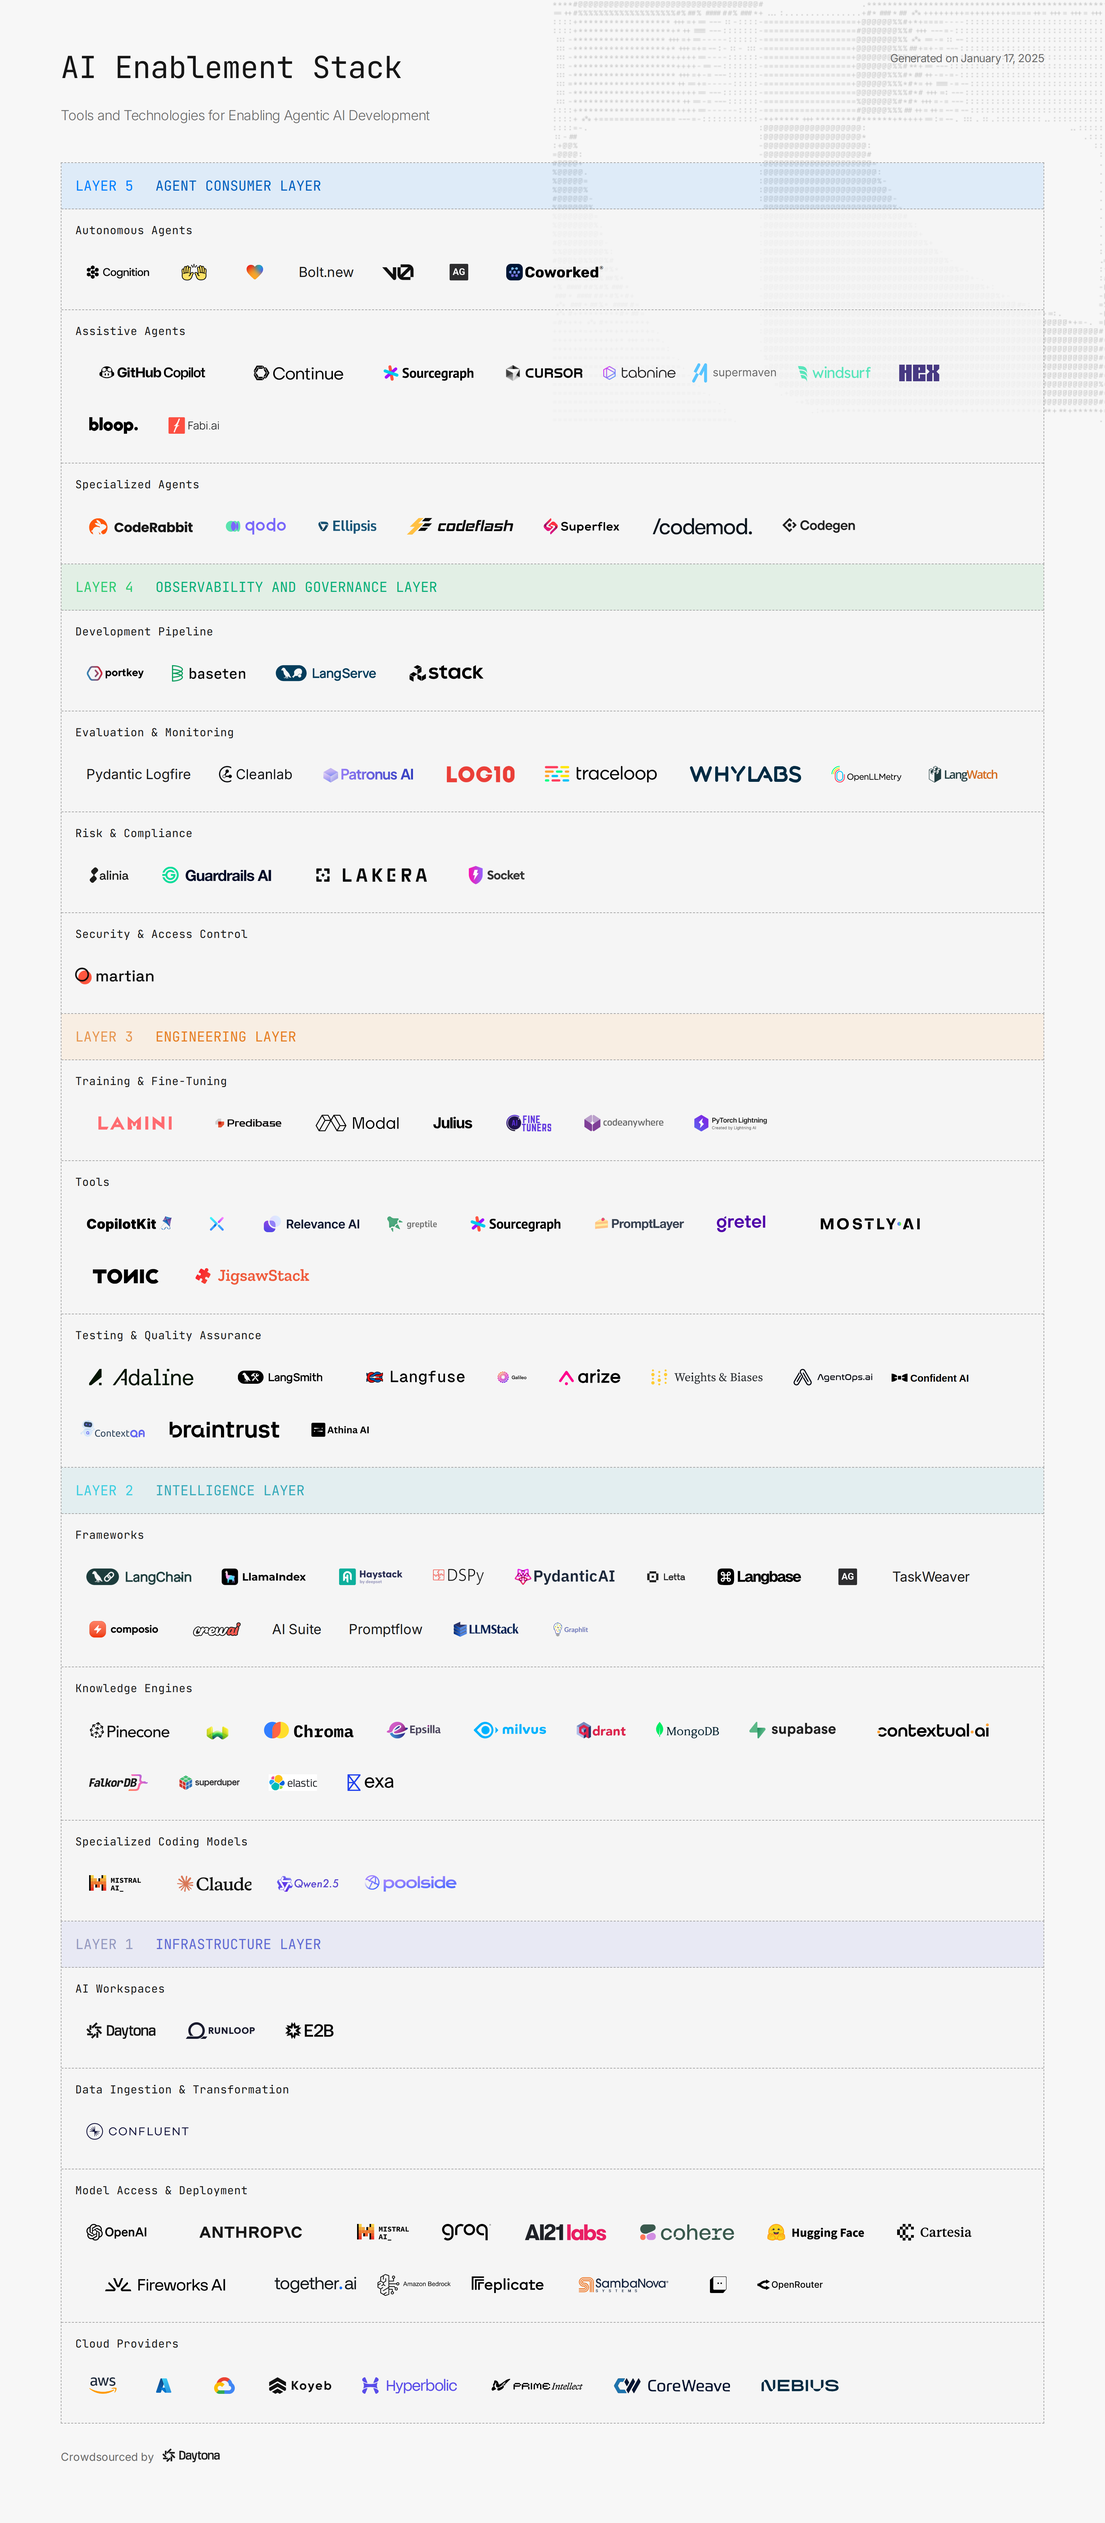
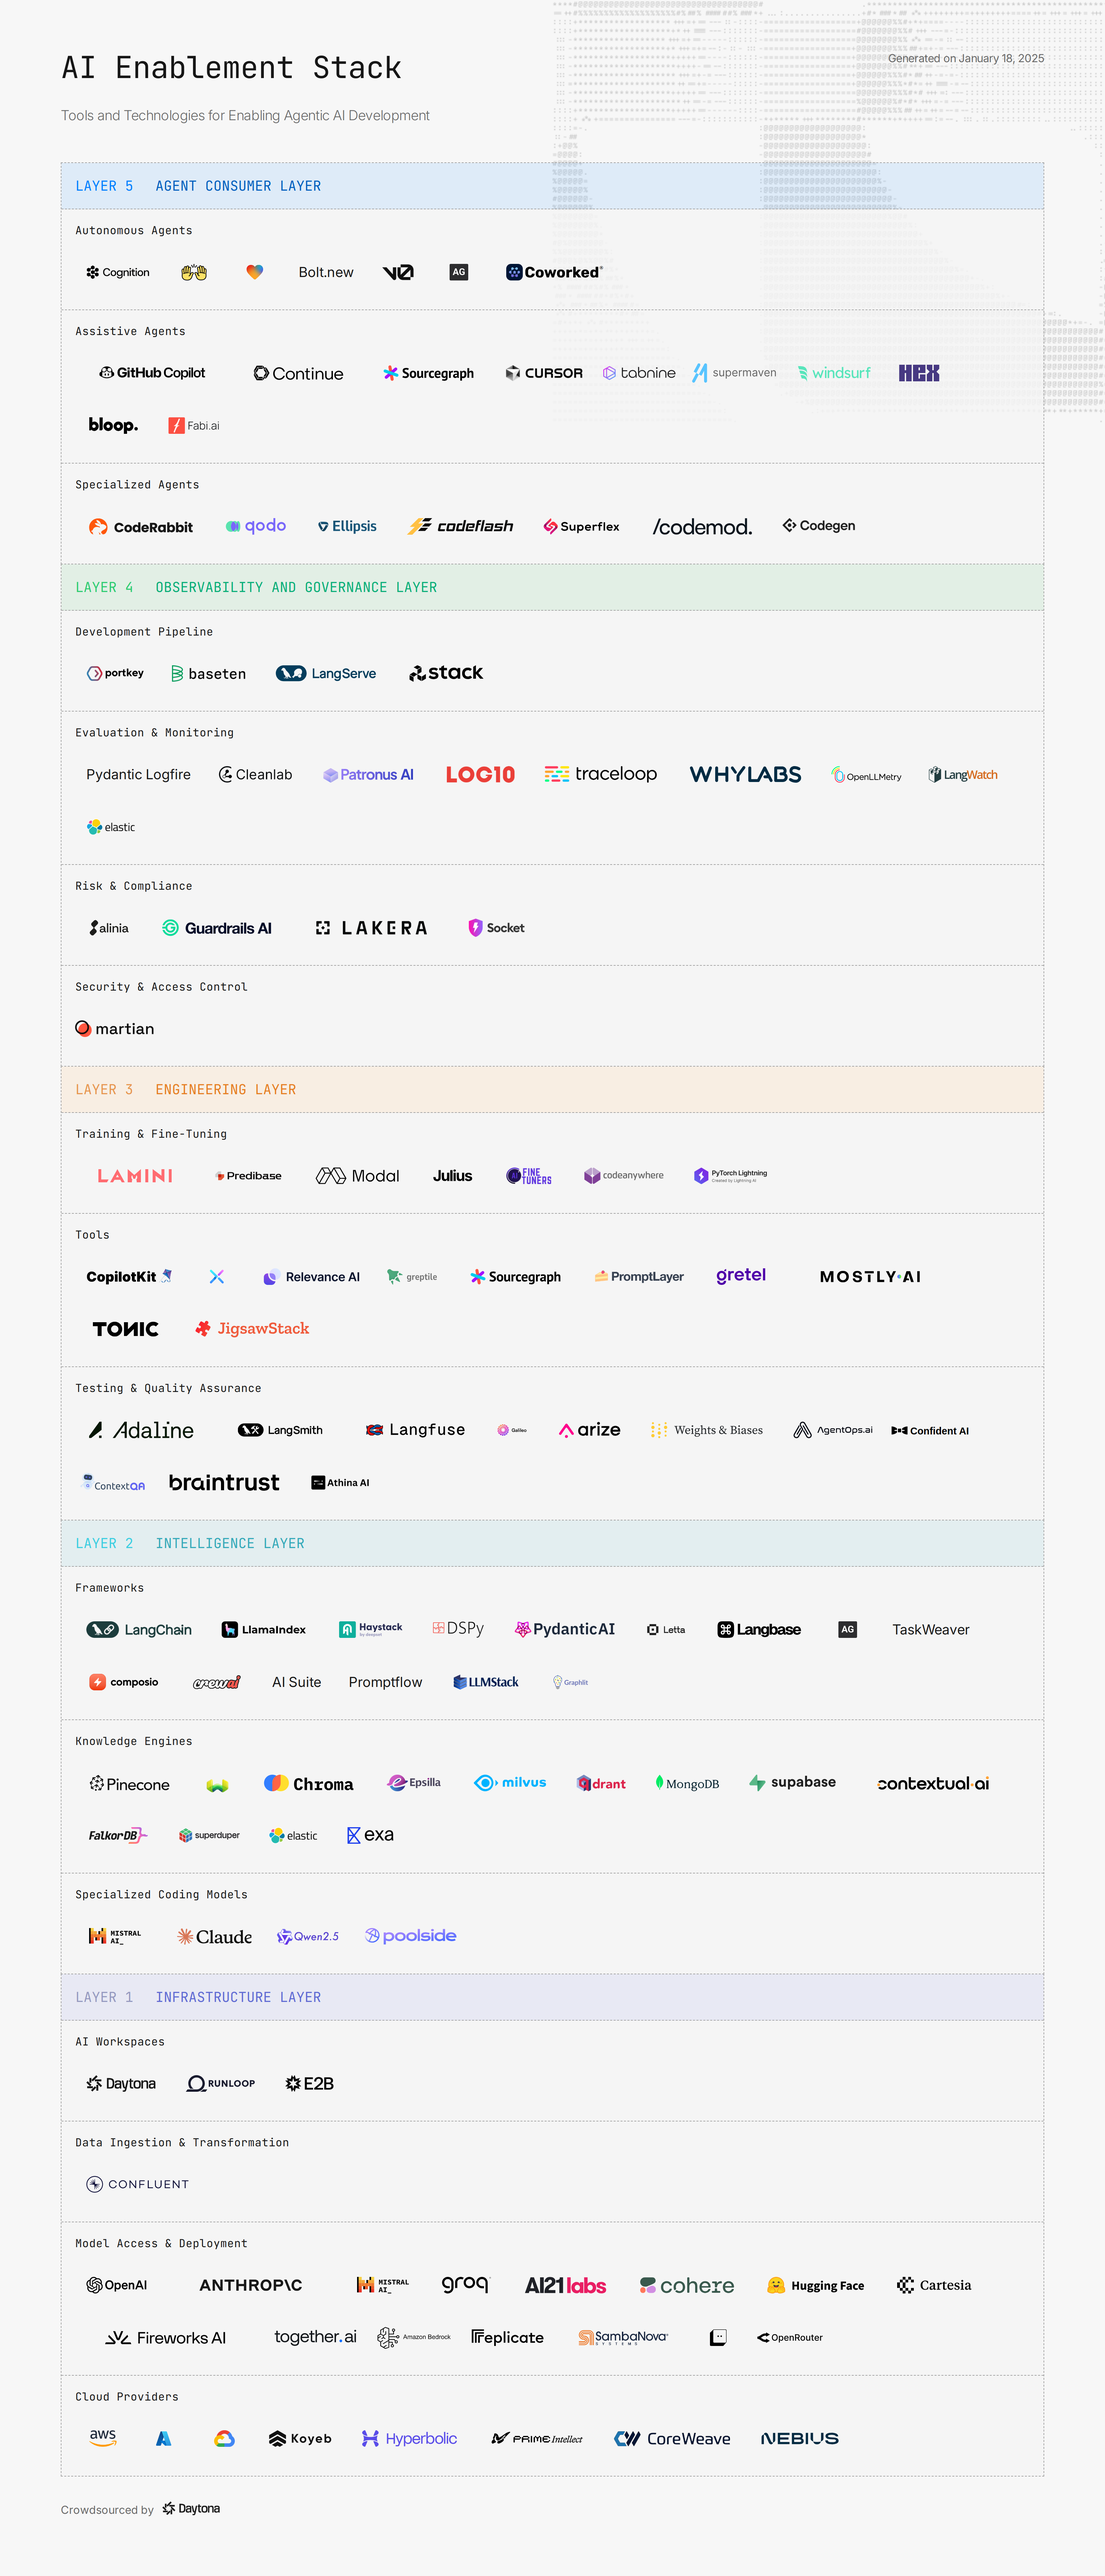
Update artefacts [skip actions]

diff --git a/README.md b/README.md
@@ -719,6 +719,23 @@ LangWatch provides a comprehensive LLMOps platform for optimizing and monitoring
 - [X/Twitter](https://twitter.com/LangWatchAI)
 </details>
 
+#### [Elastic Observability](https://www.elastic.co/observability-labs/blog/tag/llmobs)
+<details>
+
+<img src="./public/images/elastic.png" width="200" alt="Elastic Observability">
+
+##### Category
+OBSERVABILITY AND GOVERNANCE LAYER - Evaluation & Monitoring
+
+##### Description
+Elastic Observability is a full-stack observability solution and includes Log Monitoring and Analytics, Cloud and Infrastructure Monitoring, Application Performance Monitoring, Digital Experience Monitoring, Continuous Profiling, AIOps and LLM Observability.
+
+##### Links
+- [Website](https://www.elastic.co/observability-labs/blog/tag/llmobs)
+- [GitHub](https://github.com/elastic)
+- [X/Twitter](https://twitter.com/elastic)
+</details>
+
 ### Risk & Compliance
 
 Frameworks for ensuring responsible AI use and regulatory compliance
@@ -1808,7 +1825,7 @@ Superduper provides a platform for building and deploying AI applications direct
 #### [Elasticsearch](https://www.elastic.co/elasticsearch/vector-database)
 <details>
 
-<img src="./public/images/elastic-logo.png" width="200" alt="Elasticsearch">
+<img src="./public/images/elastic.png" width="200" alt="Elasticsearch">
 
 ##### Category
 INTELLIGENCE LAYER - Knowledge Engines
